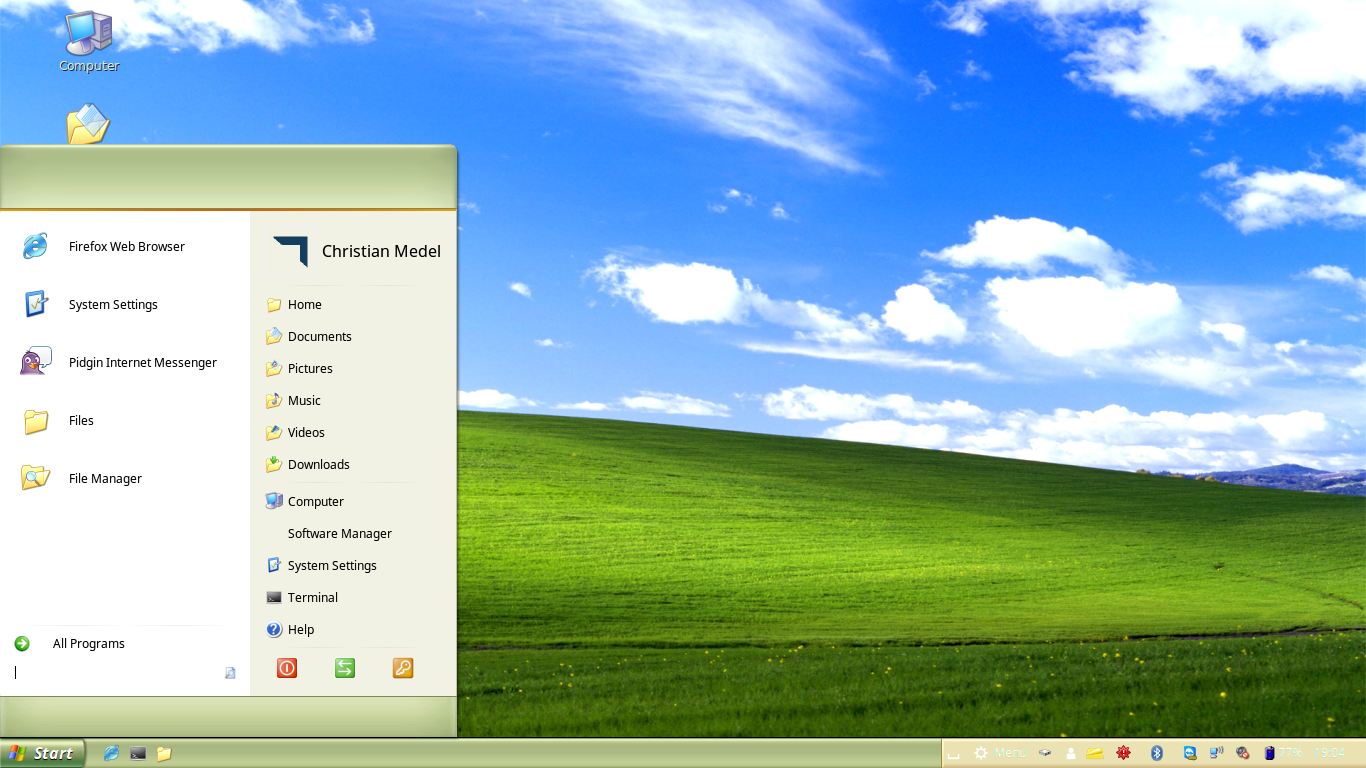
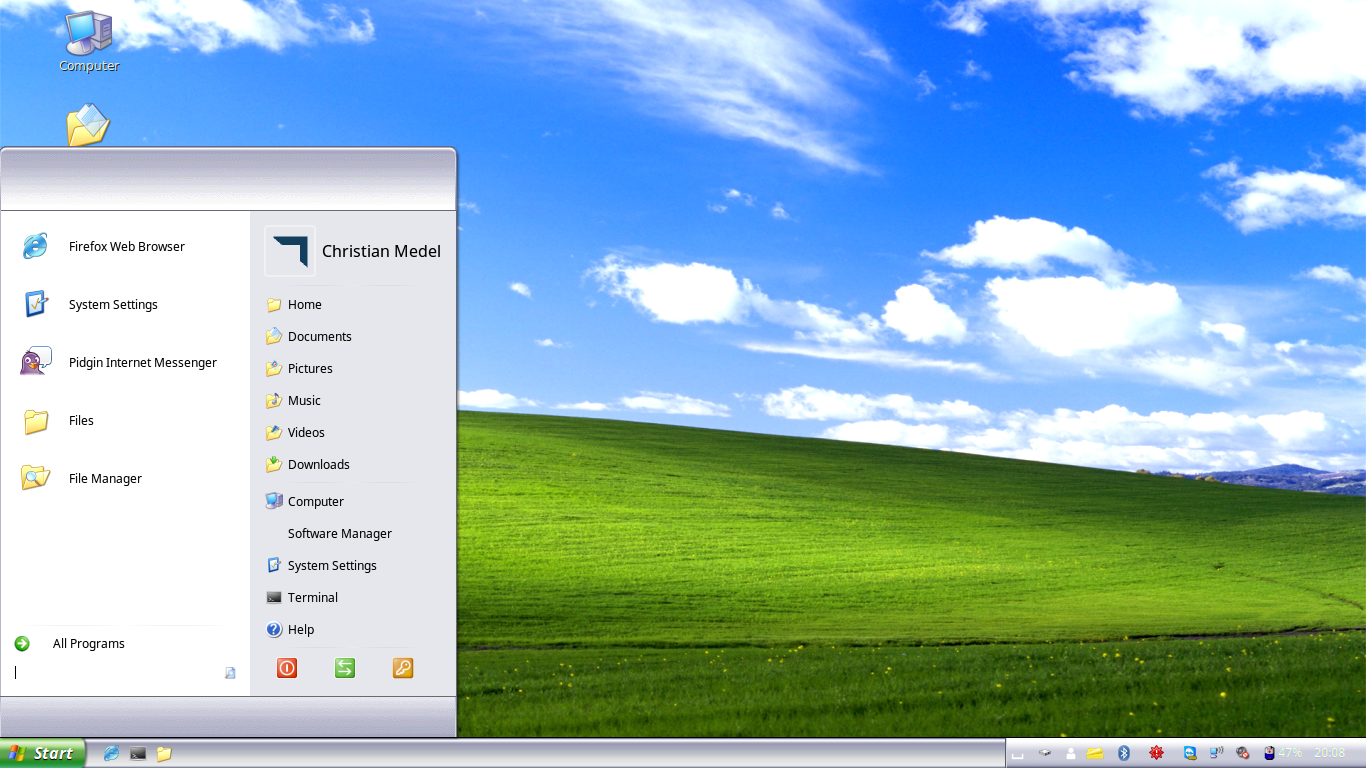
Minor color corrections

Changed region(s): [[0.0, 0.9062, 1.0, 1.0], [0.0, 0.1875, 0.3382, 0.2812]]

diff --git a/Windows XP Metallic/cinnamon/cinnamon.css b/Windows XP Metallic/cinnamon/cinnamon.css
@@ -1564,7 +1564,7 @@ border-radius: 1px;
 }
 
 .menu-favorites-button:hover {
-    background-color: #94b06f;
+    background-color: #a6a3b4;
 }
 
 .menu-places-box {  
@@ -1629,7 +1629,7 @@ border-radius: 1px;
 .menu-application-button-selected {
     padding: 7px;
     color: black;
-    background-color: #cddbb8;
+    background-color: #a6a3b4;
 }
 
 .menu-application-button-label:ltr { 
@@ -1653,7 +1653,7 @@ border-radius: 1px;
 .menu-category-button-selected {
     padding: 7px;
     color: white;
-    background-color: #cddbb8;
+    background-color: #a6a3b4;
 }
 
 .menu-category-button-label:ltr { 
